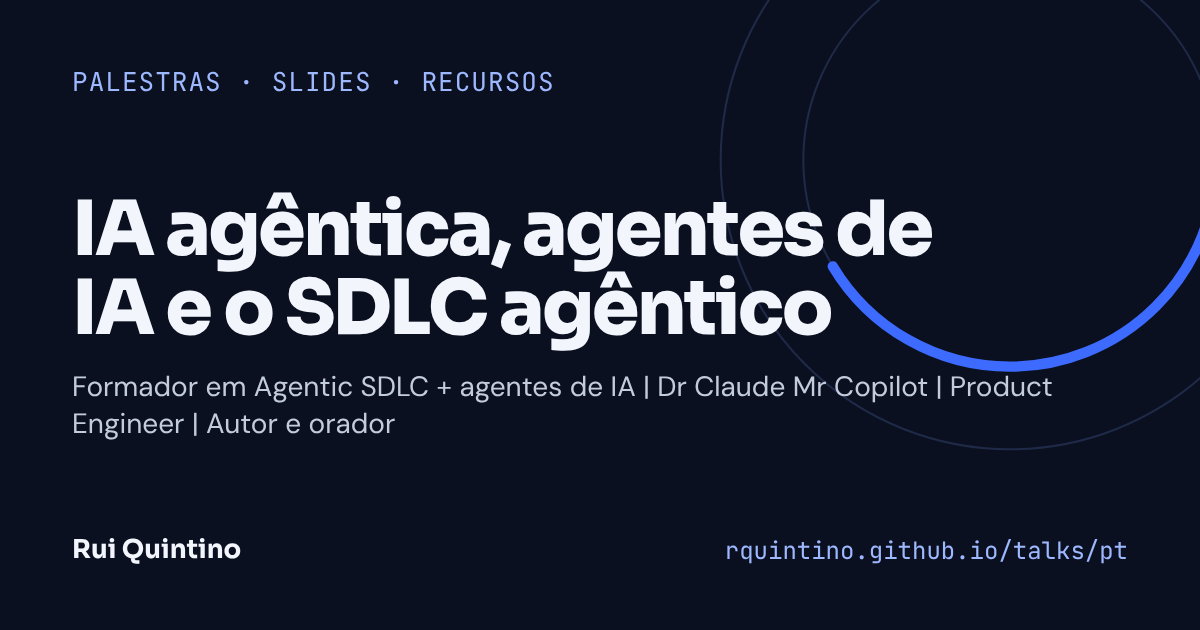
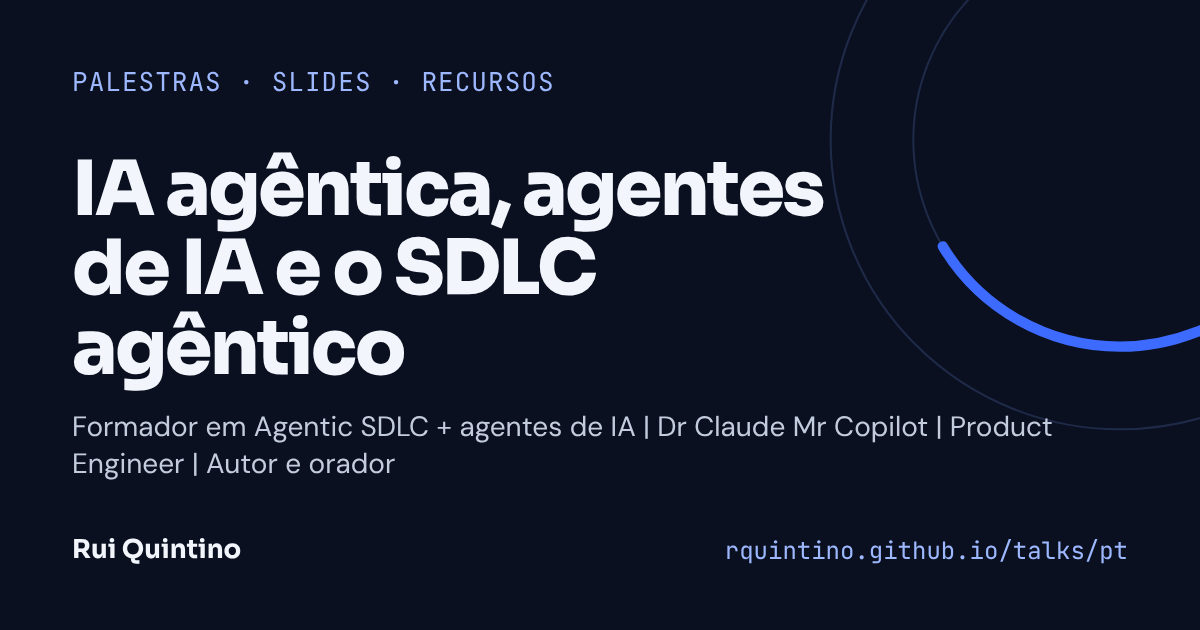
Talk page: one-line toast, Google Calendar link, clearer labels
- Toast text "Thanks!" / "Obrigado!" stays on one line at 320px
- pt-PT: "Sessão em inglês · <original title>" wraps instead of
  being cut off
- Google Calendar link-out next to the .ics button before the talk
- Accessible names: language switch includes its visible text,
  quick buttons nav is "Quick links" / "Atalhos"
- Social cards: the arc no longer crosses the title

diff --git a/pt/pth26/index.html b/pt/pth26/index.html
@@ -37,7 +37,7 @@
   <nav class="top-nav" aria-label="Perfis">
     <a class="" href="https://www.linkedin.com/in/rquintino/" rel="noopener noreferrer">LinkedIn ↗</a>
     <a class="" href="https://github.com/rquintino" rel="noopener noreferrer">GitHub ↗</a>
-    <a class="lang-switch" href="../../pth26/" hreflang="en" lang="en" aria-label="Read in English">EN</a>
+    <a class="lang-switch" href="../../pth26/" hreflang="en" lang="en" aria-label="EN, read in English">EN</a>
     <button class="theme-btn" type="button" data-theme-toggle hidden aria-label="Mudar o tema de cores"><span class="theme-ico" data-theme-icon aria-hidden="true"></span><span class="theme-txt" data-theme-label>Tema</span></button>
   </nav>
 </header>
@@ -47,14 +47,15 @@
   <header class="talk-head" data-start="2026-11-10T11:10:00+00:00" data-end="2026-11-10T12:00:00+00:00" data-fb-lead="10" data-id="pth26">
     <p class="eyebrow mono"><span data-status hidden><span class="pulse" aria-hidden="true">●</span> <span data-status-label>Em breve</span> · </span><a class="eyebrow-link" href="https://portotechhub.com/conference-2026/" rel="noopener noreferrer">Porto Tech Hub Conference 2026</a></p>
     <h1 class="talk-title">Os loops agênticos que todos os programadores devem conhecer</h1>
-    <p class="orig-title"><strong>Sessão em inglês</strong> · Título original: <span lang="en">The Agentic Loops Every Developer Should Know</span></p>
+    <p class="orig-title"><strong>Sessão em inglês</strong> · <span lang="en">The Agentic Loops Every Developer Should Know</span></p>
     <p class="talk-meta"><span>ter, 10 nov 2026</span><span class="sep" aria-hidden="true"> · </span><span>11:10–12:00</span><span class="sep" aria-hidden="true"> · </span><span>Alfândega do Porto, Porto</span><span class="sep" aria-hidden="true"> · </span><span>track AWS / Darede</span></p>
-    <nav class="quick" aria-label="Recursos e links">
+    <nav class="quick" aria-label="Atalhos">
       <a class="btn btn-primary q-fb" href="talk.ics" data-before>Adicionar ao calendário</a>
       <a data-fb-window class="btn btn-primary q-fb" href="https://forms.cloud.microsoft/Pages/ResponsePage.aspx?id=3RrCHav0MkuqaBpocTNSjC5tqu1Ng7FHko5vGSfZQG9UN1EzSFM2MURHUFo4T1MxNlhOWVZOUklGTy4u" rel="noopener noreferrer">Dar feedback · 2 min ↗</a>
       <a class="btn" href="#mat">Slides</a>
       <a class="btn" href="#res">Links <span class="q-count mono">6</span></a>
     </nav>
+    <p class="cal-alt" data-before><a class="lnk" href="https://calendar.google.com/calendar/render?action=TEMPLATE&amp;text=Os+loops+ag%C3%AAnticos+que+todos+os+programadores+devem+conhecer+%28Rui+Quintino%29&amp;dates=20261110T111000Z/20261110T120000Z&amp;details=https%3A%2F%2Frquintino.github.io%2Ftalks%2Fpt%2Fpth26%2F&amp;location=Alf%C3%A2ndega+do+Porto%2C+Porto" rel="noopener noreferrer">Google Calendar ↗</a></p>
   </header>
 
   <section class="talk-section" aria-labelledby="abs">
@@ -117,7 +118,7 @@
 </aside>
 </main>
 <div class="toast" data-fb-toast hidden role="status" aria-live="polite">
-  <p>Obrigado pela presença.</p>
+  <p>Obrigado!</p>
   <div class="toast-actions"><a data-toast-done class="btn btn-small btn-primary" href="https://forms.cloud.microsoft/Pages/ResponsePage.aspx?id=3RrCHav0MkuqaBpocTNSjC5tqu1Ng7FHko5vGSfZQG9UN1EzSFM2MURHUFo4T1MxNlhOWVZOUklGTy4u" rel="noopener noreferrer">Feedback ↗</a><button type="button" class="toast-x" data-toast-done aria-label="Fechar">✕</button></div>
 </div>
 <div id="stage" class="stage" role="dialog" aria-modal="true" aria-labelledby="stage-title">

diff --git a/pth26/index.html b/pth26/index.html
@@ -37,7 +37,7 @@
   <nav class="top-nav" aria-label="Profiles">
     <a class="" href="https://www.linkedin.com/in/rquintino/" rel="noopener noreferrer">LinkedIn ↗</a>
     <a class="" href="https://github.com/rquintino" rel="noopener noreferrer">GitHub ↗</a>
-    <a class="lang-switch" href="../pt/pth26/" hreflang="pt-PT" lang="pt-PT" aria-label="Ler em português">PT</a>
+    <a class="lang-switch" href="../pt/pth26/" hreflang="pt-PT" lang="pt-PT" aria-label="PT, ler em português">PT</a>
     <button class="theme-btn" type="button" data-theme-toggle hidden aria-label="Switch colour theme"><span class="theme-ico" data-theme-icon aria-hidden="true"></span><span class="theme-txt" data-theme-label>Theme</span></button>
   </nav>
 </header>
@@ -49,12 +49,13 @@
     <h1 class="talk-title">The Agentic Loops Every Developer Should Know</h1>
     
     <p class="talk-meta"><span>Tue 10 Nov 2026</span><span class="sep" aria-hidden="true"> · </span><span>11:10–12:00</span><span class="sep" aria-hidden="true"> · </span><span>Alfândega do Porto, Porto</span><span class="sep" aria-hidden="true"> · </span><span>AWS / Darede track</span></p>
-    <nav class="quick" aria-label="Resources & links">
+    <nav class="quick" aria-label="Quick links">
       <a class="btn btn-primary q-fb" href="talk.ics" data-before>Add to calendar</a>
       <a data-fb-window class="btn btn-primary q-fb" href="https://forms.cloud.microsoft/Pages/ResponsePage.aspx?id=3RrCHav0MkuqaBpocTNSjC5tqu1Ng7FHko5vGSfZQG9UN1EzSFM2MURHUFo4T1MxNlhOWVZOUklGTy4u" rel="noopener noreferrer">Give feedback · 2 min ↗</a>
       <a class="btn" href="#mat">Slides</a>
       <a class="btn" href="#res">Links <span class="q-count mono">6</span></a>
     </nav>
+    <p class="cal-alt" data-before><a class="lnk" href="https://calendar.google.com/calendar/render?action=TEMPLATE&amp;text=The+Agentic+Loops+Every+Developer+Should+Know+%28Rui+Quintino%29&amp;dates=20261110T111000Z/20261110T120000Z&amp;details=https%3A%2F%2Frquintino.github.io%2Ftalks%2Fpth26%2F&amp;location=Alf%C3%A2ndega+do+Porto%2C+Porto" rel="noopener noreferrer">Google Calendar ↗</a></p>
   </header>
 
   <section class="talk-section" aria-labelledby="abs">
@@ -117,7 +118,7 @@
 </aside>
 </main>
 <div class="toast" data-fb-toast hidden role="status" aria-live="polite">
-  <p>Thanks for joining.</p>
+  <p>Thanks!</p>
   <div class="toast-actions"><a data-toast-done class="btn btn-small btn-primary" href="https://forms.cloud.microsoft/Pages/ResponsePage.aspx?id=3RrCHav0MkuqaBpocTNSjC5tqu1Ng7FHko5vGSfZQG9UN1EzSFM2MURHUFo4T1MxNlhOWVZOUklGTy4u" rel="noopener noreferrer">Feedback ↗</a><button type="button" class="toast-x" data-toast-done aria-label="Dismiss">✕</button></div>
 </div>
 <div id="stage" class="stage" role="dialog" aria-modal="true" aria-labelledby="stage-title">

diff --git a/assets/site.css b/assets/site.css
@@ -337,7 +337,9 @@ html[data-phase="before"] [data-fb-window], html[data-phase="live"] [data-fb-win
   width: min(440px, calc(100% - 32px)); display: flex; align-items: center; justify-content: space-between; gap: 8px;
   padding: 6px 6px 6px 16px; border-radius: 16px; background: var(--surface); border: 1.5px solid var(--next-ring);
   box-shadow: 0 10px 30px rgba(10, 15, 28, 0.28); animation: toast-in 0.25s ease-out; }
-.toast p { margin: 0; flex: 1 1 auto; min-width: 0; font-size: 16px; color: var(--fg); }
+.toast p { margin: 0; flex: 1 1 auto; min-width: 0; font-size: 16px; color: var(--fg); white-space: nowrap; overflow: hidden; text-overflow: ellipsis; }
+.cal-alt { margin: -4px 0 0; font-size: 16px; }
+.cal-alt a { display: inline-flex; align-items: center; min-height: 44px; }
 .toast-actions { flex: none; display: flex; align-items: center; gap: 4px; }
 .toast .btn { white-space: nowrap; }
 body.has-toast { padding-bottom: calc(88px + env(safe-area-inset-bottom, 0px)); }
@@ -380,7 +382,6 @@ body:has(.stage:target) { overflow: hidden; }
   .talk-title { font-size: 30px; }
   .talk-head { gap: 12px; }
   .talk-meta { font-size: 17px; }
-  .orig-title { white-space: nowrap; overflow: hidden; text-overflow: ellipsis; }
   .orig-title { margin-top: -2px; }
 }
 

diff --git a/404.html b/404.html
@@ -37,7 +37,7 @@
   <nav class="top-nav" aria-label="Profiles">
     <a class="" href="https://www.linkedin.com/in/rquintino/" rel="noopener noreferrer">LinkedIn ↗</a>
     <a class="" href="https://github.com/rquintino" rel="noopener noreferrer">GitHub ↗</a>
-    <a class="lang-switch" href="/talks/pt/" hreflang="pt-PT" lang="pt-PT" aria-label="Ler em português">PT</a>
+    <a class="lang-switch" href="/talks/pt/" hreflang="pt-PT" lang="pt-PT" aria-label="PT, ler em português">PT</a>
     <button class="theme-btn" type="button" data-theme-toggle hidden aria-label="Switch colour theme"><span class="theme-ico" data-theme-icon aria-hidden="true"></span><span class="theme-txt" data-theme-label>Theme</span></button>
   </nav>
 </header>

diff --git a/index.html b/index.html
@@ -37,7 +37,7 @@
   <nav class="top-nav" aria-label="Profiles">
     <a class="" href="https://www.linkedin.com/in/rquintino/" rel="noopener noreferrer">LinkedIn ↗</a>
     <a class="" href="https://github.com/rquintino" rel="noopener noreferrer">GitHub ↗</a>
-    <a class="lang-switch" href="pt/" hreflang="pt-PT" lang="pt-PT" aria-label="Ler em português">PT</a>
+    <a class="lang-switch" href="pt/" hreflang="pt-PT" lang="pt-PT" aria-label="PT, ler em português">PT</a>
     <button class="theme-btn" type="button" data-theme-toggle hidden aria-label="Switch colour theme"><span class="theme-ico" data-theme-icon aria-hidden="true"></span><span class="theme-txt" data-theme-label>Theme</span></button>
   </nav>
 </header>

diff --git a/pt/index.html b/pt/index.html
@@ -37,7 +37,7 @@
   <nav class="top-nav" aria-label="Perfis">
     <a class="" href="https://www.linkedin.com/in/rquintino/" rel="noopener noreferrer">LinkedIn ↗</a>
     <a class="" href="https://github.com/rquintino" rel="noopener noreferrer">GitHub ↗</a>
-    <a class="lang-switch" href="../" hreflang="en" lang="en" aria-label="Read in English">EN</a>
+    <a class="lang-switch" href="../" hreflang="en" lang="en" aria-label="EN, read in English">EN</a>
     <button class="theme-btn" type="button" data-theme-toggle hidden aria-label="Mudar o tema de cores"><span class="theme-ico" data-theme-icon aria-hidden="true"></span><span class="theme-txt" data-theme-label>Tema</span></button>
   </nav>
 </header>
